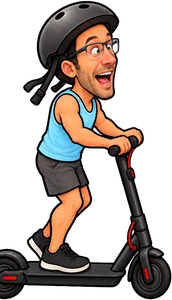
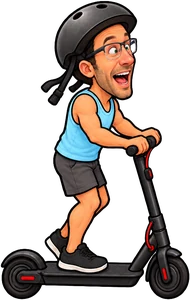
Sagi's scooter game: recut Sagi's views whole (no cut wheels), deck at his scooter's height, stray specks removed

diff --git a/public/sagi-games/scooter-snake/game.js b/public/sagi-games/scooter-snake/game.js
@@ -428,16 +428,16 @@ function draw(now) {
     icon('alert', cx, by - ch * 1.0, t * 0.5, now);
   } });
   const k = moving ? clamp(prog, 0, 1) : 1;
-  const pos = snake.map((s) => ({ x: tx(lerp(s.pc, s.c, k) + 0.5), y: ty(lerp(s.pr, s.r, k) + 1) - t * 0.14 }));
+  const pos = snake.map((s) => ({ x: tx(lerp(s.pc, s.c, k) + 0.5), y: ty(lerp(s.pr, s.r, k) + 1) - t * 0.22 }));
   // Sagi's scooter grows: one long deck from his scooter to the last listener, a rear wheel at its end
   // the deck turns where the line turned: between two riders it passes through the tile the front one just left
-  const path = []; pos.forEach((p, i) => { path.push(p); if (i < pos.length - 1) path.push({ x: tx(snake[i].pc + 0.5), y: ty(snake[i].pr + 1) - t * 0.14 }); });
+  const path = []; pos.forEach((p, i) => { path.push(p); if (i < pos.length - 1) path.push({ x: tx(snake[i].pc + 0.5), y: ty(snake[i].pr + 1) - t * 0.22 }); });
   if (snake.length > 1 && !crash) drawDeck(path, snake[snake.length - 1], t);
   const view = (s) => s.dy < 0 ? ['b', false] : s.dy > 0 ? ['f', false] : ['s', s.face < 0];
   snake.forEach((s, i) => {
     const p = pos[i];
-    items.push({ y: (p.y + t * 0.14 - B.y) / t - 0.1 + (i === 0 ? 0.01 : 0), f: () => {
-      const cx = p.x, by = p.y + t * 0.06, bounce = Math.abs(Math.sin(now * 10 + i * 0.7)) * t * 0.03;
+    items.push({ y: (p.y + t * 0.22 - B.y) / t - 0.1 + (i === 0 ? 0.01 : 0), f: () => {
+      const cx = p.x, by = p.y + (i === 0 ? t * 0.14 : t * 0.05), bounce = Math.abs(Math.sin(now * 10 + i * 0.7)) * t * 0.03;
       const [v, flip] = view(s);
       if (i === 0) {
         if (crash) { shadow(cx, by, t * 1.1); sprite(IMG['sagi-crash'], cx + Math.sin(crash.t * 50) * Math.max(0, 1 - crash.t * 2) * 4, by, ch * 1.05, s.face < 0); return; }

diff --git a/public/sagi-games/scooter-snake/index.html b/public/sagi-games/scooter-snake/index.html
@@ -184,6 +184,6 @@ body.turn #turn{display:flex}
     <button id="tutNext">הבא <span class="keyhint">(רווח)</span></button>
   </div>
 </div>
-<script src="game.js?v=4"></script>
+<script src="game.js?v=5"></script>
 </body>
 </html>
